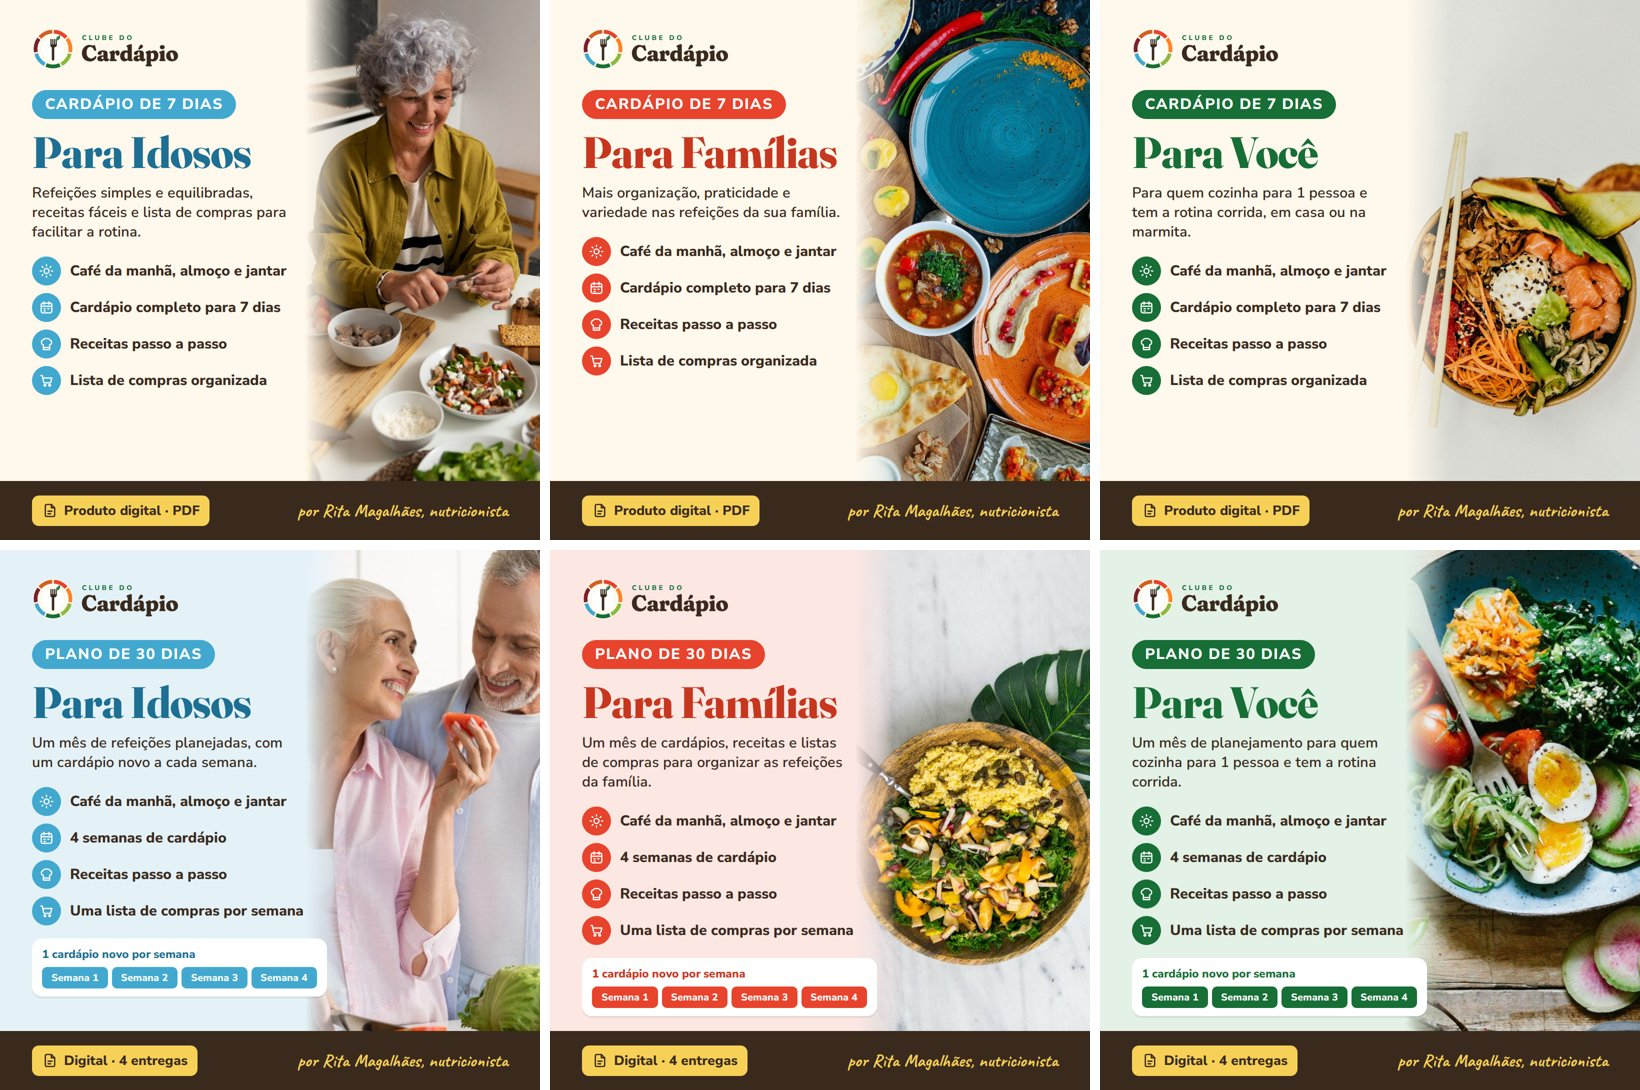
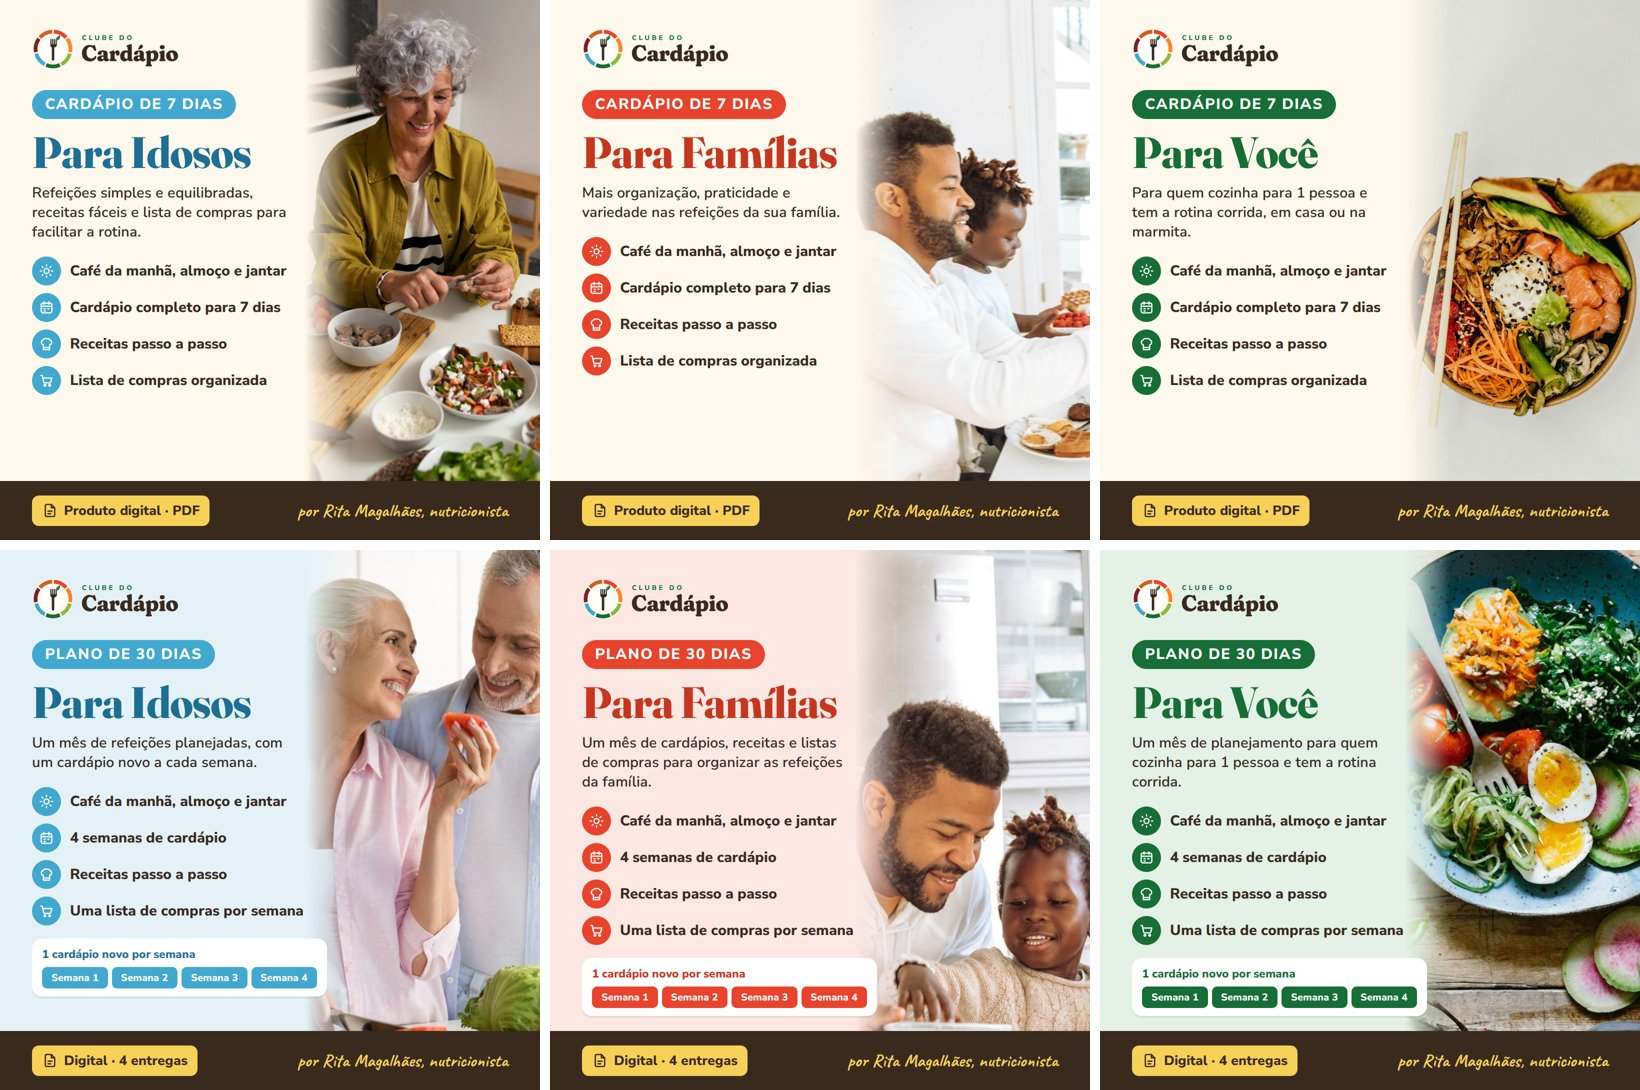
Artes Eduzz Famílias com fotos reais de família; fotos salvas no banco
Claude-Session: https://claude.ai/code/session_011dvyRhPNz3FX2TnzhsmVBS

Changed region(s): [[0.4976, 0.0, 0.6841, 0.4679], [0.5287, 0.4991, 0.6841, 0.967]]

diff --git a/docs/marca/eduzz/familias-30.html b/docs/marca/eduzz/familias-30.html
@@ -1,6 +1,6 @@
 <html><head><link rel="stylesheet" href="/tmp/claude-0/-home-user-Clubedo-cardapio/ef7db377-9c08-5500-8586-2275101b0650/scratchpad/hero/fonts.css"><style>
 *{box-sizing:border-box;margin:0;padding:0} body{width:1080px;height:1080px;background:#FCE7E3;font-family:Nunito;color:#3A2A1E;position:relative;overflow:hidden}
-.foto{position:absolute;right:0;top:0;width:470px;height:1080px;background:url(/home/user/Clubedo-cardapio/images/banco/cuscuz-salada-couve.jpg) 50% 50%/cover;border-radius:0 0 0 0}
+.foto{position:absolute;right:0;top:0;width:470px;height:1080px;background:url(/home/user/Clubedo-cardapio/images/banco/familia-cozinhando.jpg) 33% 0%/auto 1300px;border-radius:0 0 0 0}
 .foto:before{content:"";position:absolute;inset:0;background:linear-gradient(90deg,#FCE7E3 0,#FCE7E300 90px)}
 .col{position:absolute;left:64px;top:56px;width:590px}
 .logo{height:84px;display:block;margin-bottom:40px}

diff --git a/docs/marca/eduzz/familias-7.html b/docs/marca/eduzz/familias-7.html
@@ -1,6 +1,6 @@
 <html><head><link rel="stylesheet" href="/tmp/claude-0/-home-user-Clubedo-cardapio/ef7db377-9c08-5500-8586-2275101b0650/scratchpad/hero/fonts.css"><style>
 *{box-sizing:border-box;margin:0;padding:0} body{width:1080px;height:1080px;background:#FFF8EC;font-family:Nunito;color:#3A2A1E;position:relative;overflow:hidden}
-.foto{position:absolute;right:0;top:0;width:470px;height:1080px;background:url(/home/user/Clubedo-cardapio/images/banco/mesa-pratos-variados.jpg) 50% 75%/cover;border-radius:0 0 0 0}
+.foto{position:absolute;right:0;top:0;width:470px;height:1080px;background:url(/home/user/Clubedo-cardapio/images/banco/familia-mesa-cafe.jpg) 8% 50%/auto 1080px;border-radius:0 0 0 0}
 .foto:before{content:"";position:absolute;inset:0;background:linear-gradient(90deg,#FFF8EC 0,#FFF8EC00 90px)}
 .col{position:absolute;left:64px;top:56px;width:590px}
 .logo{height:84px;display:block;margin-bottom:40px}

diff --git a/images/banco/LEIA-ME.md b/images/banco/LEIA-ME.md
@@ -9,6 +9,8 @@ Os recortes quadrados usados no tablet do HERO ficam em `images/pratos/`.
 |---|---|
 | `idosa-preparando-salada.jpg` | /idosos: topo ou seção de solução |
 | `casal-idoso-cozinhando.jpg` | /idosos: seção "para quem cuida" |
+| `familia-mesa-cafe.jpg` | /familias e arte Eduzz Famílias 7 dias |
+| `familia-cozinhando.jpg` | /familias e arte Eduzz Famílias 30 dias |
 
 ## Café da manhã
 `cafe-ovos-panquecas-suco`, `cafe-torrada-ovo-tomate`, `cafe-torrada-ovo-abacate`,
